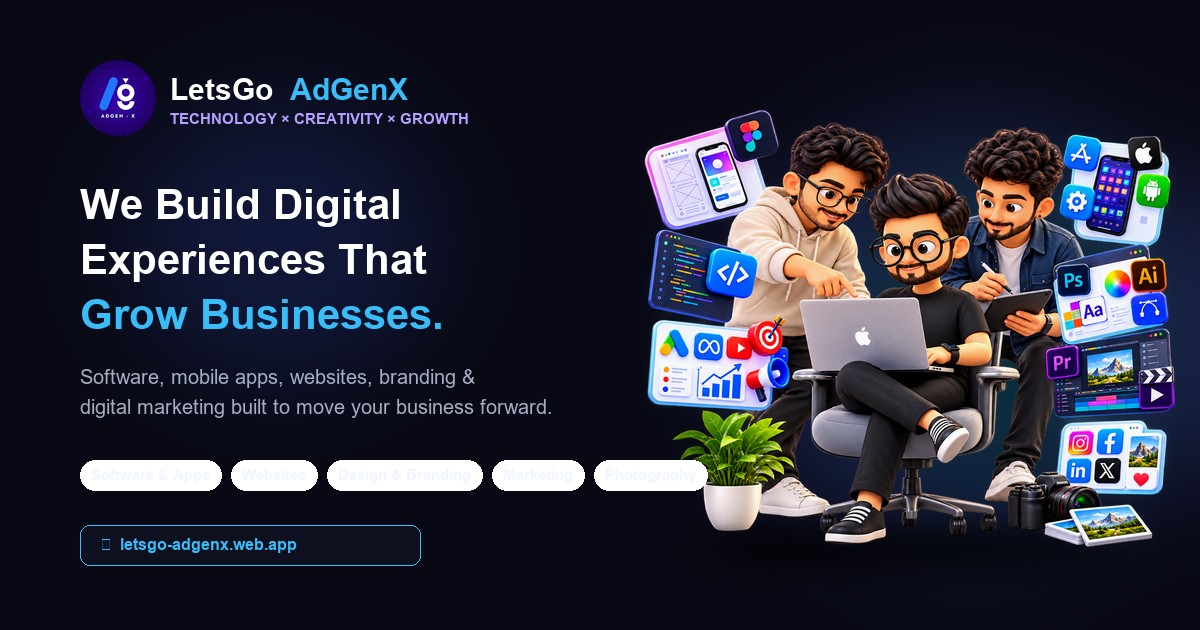
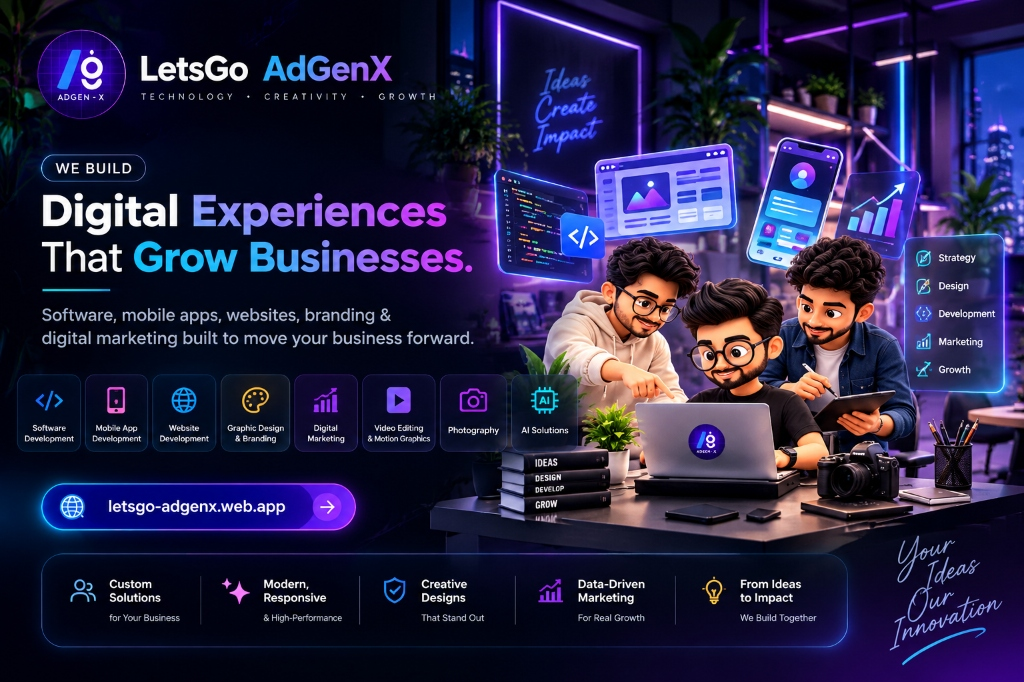
Update social share preview image (og-preview) with new official poster

diff --git a/index.html b/index.html
@@ -32,8 +32,8 @@
     <meta property="og:image" content="https://letsgo-adgenx.web.app/og-preview.jpg" />
     <meta property="og:image:secure_url" content="https://letsgo-adgenx.web.app/og-preview.jpg" />
     <meta property="og:image:type" content="image/jpeg" />
-    <meta property="og:image:width" content="1200" />
-    <meta property="og:image:height" content="630" />
+    <meta property="og:image:width" content="1024" />
+    <meta property="og:image:height" content="682" />
     <meta property="og:image:alt" content="LetsGoAdGenX - Software Development, Design & Digital Marketing" />
 
     <!-- Twitter / X Cards -->
